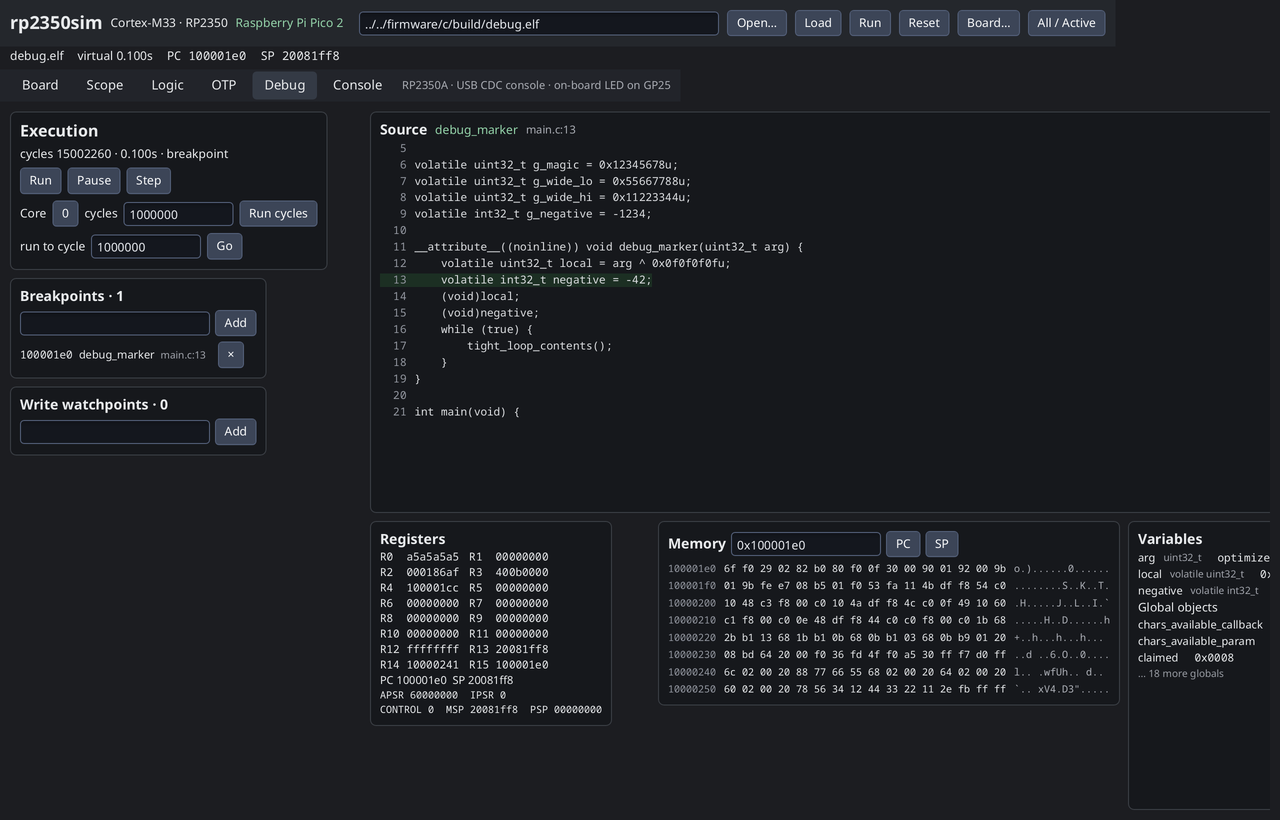
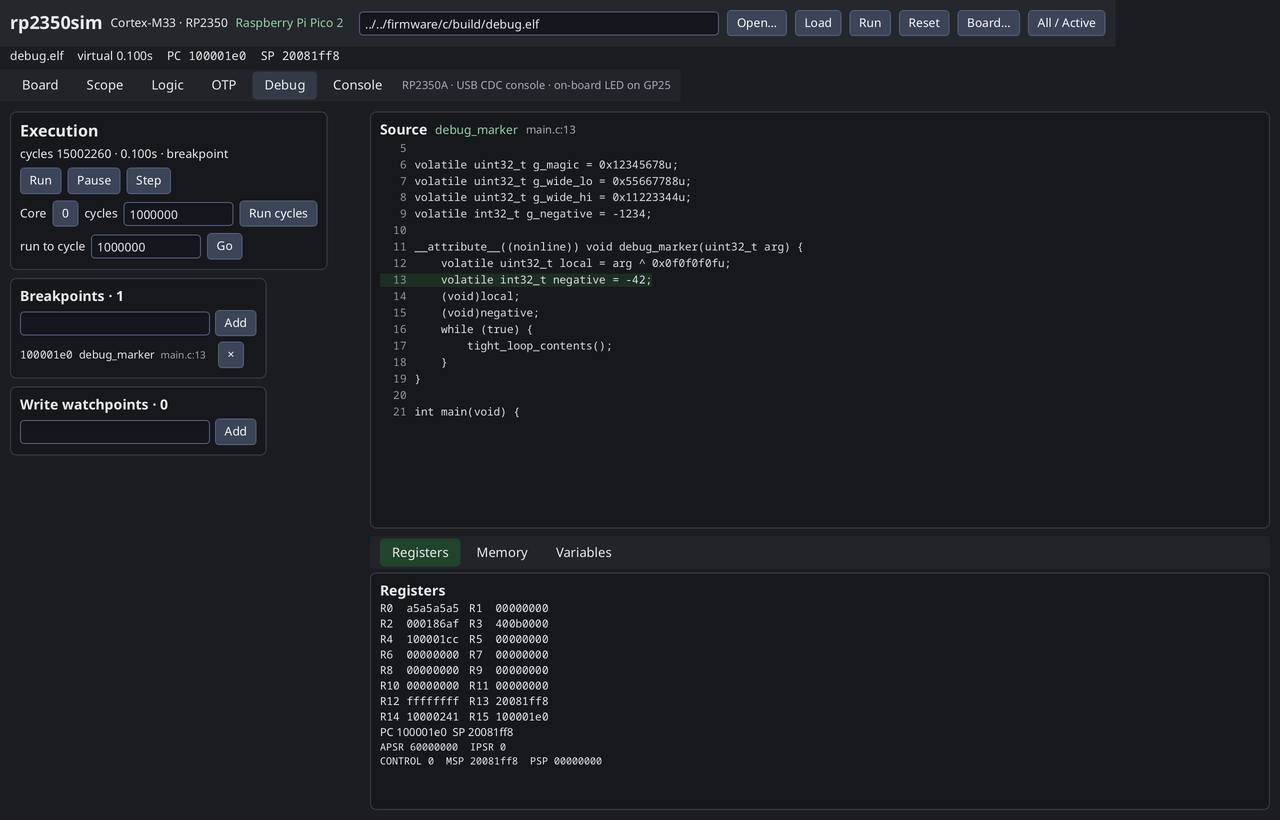
debug: move registers, memory and variables into inspector tabs
Give the source viewer the upper part of the Debug tab and put the register,
memory and variable views in a tab group fixed to one third of the window
height. Update the guide and screenshot.

Changed region(s): [[0.5, 0.6402, 1.0, 0.8537], [0.2812, 0.6402, 0.4688, 0.9451]]

diff --git a/cmd/simui/debugui.go b/cmd/simui/debugui.go
@@ -12,12 +12,13 @@ import (
 )
 
 var (
-	debugBreakSpec  string
-	debugWatchSpec  string
-	debugCyclesSpec = "1000000"
-	debugMemSpec    string
-	debugMsg        string
-	debugCore       int
+	debugBreakSpec    string
+	debugWatchSpec    string
+	debugCyclesSpec   = "1000000"
+	debugMemSpec      string
+	debugMsg          string
+	debugCore         int
+	debugInspectorTab int
 )
 
 func debugPanel(snap MachineState) {
@@ -30,20 +31,50 @@ func debugPanel(snap MachineState) {
 		})
 		Container(Attrs(Grow(1), Expand, Gap(8)), func() {
 			debugSource(s)
-			Container(Attrs(Row, Grow(1), Expand, Gap(8)), func() {
-				Container(Attrs(FixWidth(280), Expand, Gap(4)), func() {
-					debugRegisters(s)
-				})
-				Container(Attrs(Grow(1), Expand, Gap(4)), func() {
-					debugMemory(s)
-				})
-				Container(Attrs(FixWidth(330), Expand, Gap(4)), func() {
-					debugVariables(s)
-				})
-			})
+			debugInspector(s)
 		})
 	})
 	_ = snap
+}
+
+func debugInspector(s DebugSnapshot) {
+	// One third of the window height: the source viewer above takes the rest.
+	Container(Attrs(FixHeight(float32(viewH)/3), Expand, Gap(4)), func() {
+		Container(Attrs(Row, CrossMid, Expand, Gap(4), Pad4(2, 10, 2, 10),
+			Background(220, 10, 15, 1)), func() {
+			debugInspectorButton("Registers", 0)
+			debugInspectorButton("Memory", 1)
+			debugInspectorButton("Variables", 2)
+			Filler(1)
+		})
+		Container(Attrs(Grow(1), Expand), func() {
+			switch debugInspectorTab {
+			case 1:
+				debugMemory(s)
+			case 2:
+				debugVariables(s)
+			default:
+				debugRegisters(s)
+			}
+		})
+	})
+}
+
+func debugInspectorButton(label string, tab int) {
+	Container(Attrs(Row, CrossMid, Pad2(6, 12), Corners(4)), func() {
+		st := ProcessButtonEvents(false)
+		if st.Clicked {
+			debugInspectorTab = tab
+			RequestNextFrame()
+		}
+		switch {
+		case debugInspectorTab == tab:
+			ModAttrs(Background(140, 35, 20, 1))
+		case st.Hovered:
+			ModAttrs(Background(220, 12, 18, 1))
+		}
+		Label(label, FontSize(13), FontWeight(600))
+	})
 }
 
 func debugControls(s DebugSnapshot) {
@@ -220,7 +251,7 @@ func debugSource(s DebugSnapshot) {
 }
 
 func debugRegisters(s DebugSnapshot) {
-	Container(Attrs(Gap(2), Pad(10), Corners(6), Background(220, 12, 10, 1),
+	Container(Attrs(Grow(1), Expand, Gap(2), Pad(10), Corners(6), Background(220, 12, 10, 1),
 		BorderWidth(1), BorderColor(220, 8, 25, 1)), func() {
 		Label("Registers", FontSize(14), FontWeight(700))
 		for r := 0; r < 16; r += 2 {
@@ -240,7 +271,7 @@ func debugMemory(s DebugSnapshot) {
 	if debugMemSpec == "" {
 		debugMemSpec = fmt.Sprintf("%#x", s.PC)
 	}
-	Container(Attrs(Gap(5), Pad(10), Corners(6), Background(220, 12, 10, 1),
+	Container(Attrs(Grow(1), Expand, Gap(5), Pad(10), Corners(6), Background(220, 12, 10, 1),
 		BorderWidth(1), BorderColor(220, 8, 25, 1)), func() {
 		Container(Attrs(Row, CrossMid, Gap(5)), func() {
 			Label("Memory", FontSize(14), FontWeight(700))

diff --git a/docs/debug.md b/docs/debug.md
@@ -32,12 +32,13 @@ rp2350sim -fw firmware.elf -seconds 2 -watch g_magic
 - **Source** shows the lines around the current PC when the DWARF file is
   present on this machine. A short name, function and `file:line` are shown
   even when the source tree is from another build host.
-- **Registers** shows R0-R15, APSR, IPSR, CONTROL, MSP and PSP.
-- **Memory** is a read-only hex/ASCII view. It uses side-effect-free `Peek`
-  reads for ROM, flash, SRAM and PSRAM: it does not charge PSRAM latency and
-  never reads a UART/SPI/I2C/FIFO register. **PC** and **SP** jump to the
-  current locations.
-- **Variables** evaluates the current function's locals and globals.
+- The lower third of the tab is a **Registers / Memory / Variables** inspector.
+  - **Registers** shows R0-R15, APSR, IPSR, CONTROL, MSP and PSP.
+  - **Memory** is a read-only hex/ASCII view. It uses side-effect-free `Peek`
+    reads for ROM, flash, SRAM and PSRAM: it does not charge PSRAM latency and
+    never reads a UART/SPI/I2C/FIFO register. **PC** and **SP** jump to the
+    current locations.
+  - **Variables** evaluates the current function's locals and globals.
 
 ## Variables and limitations
 

diff --git a/docs/ui.md b/docs/ui.md
@@ -227,9 +227,10 @@ with the runner's `-otp` flag or dump them with `-otp-dump`.
 ### Debug
 
 The debugger view: Run/Pause/Step, cycle stepping, breakpoints by address or
-symbol, write watchpoints, registers, a side-effect-free memory hex view,
-source/line and DWARF variables. See [debug.md](debug.md) for the variable
-limitations and the fixture tests.
+symbol, write watchpoints, source/line and a lower inspector with
+**Registers / Memory / Variables** tabs. The inspector is one third of the
+window height. See [debug.md](debug.md) for the variable limitations and the
+fixture tests.
 
 ![Debug tab](images/debug.png)
 
